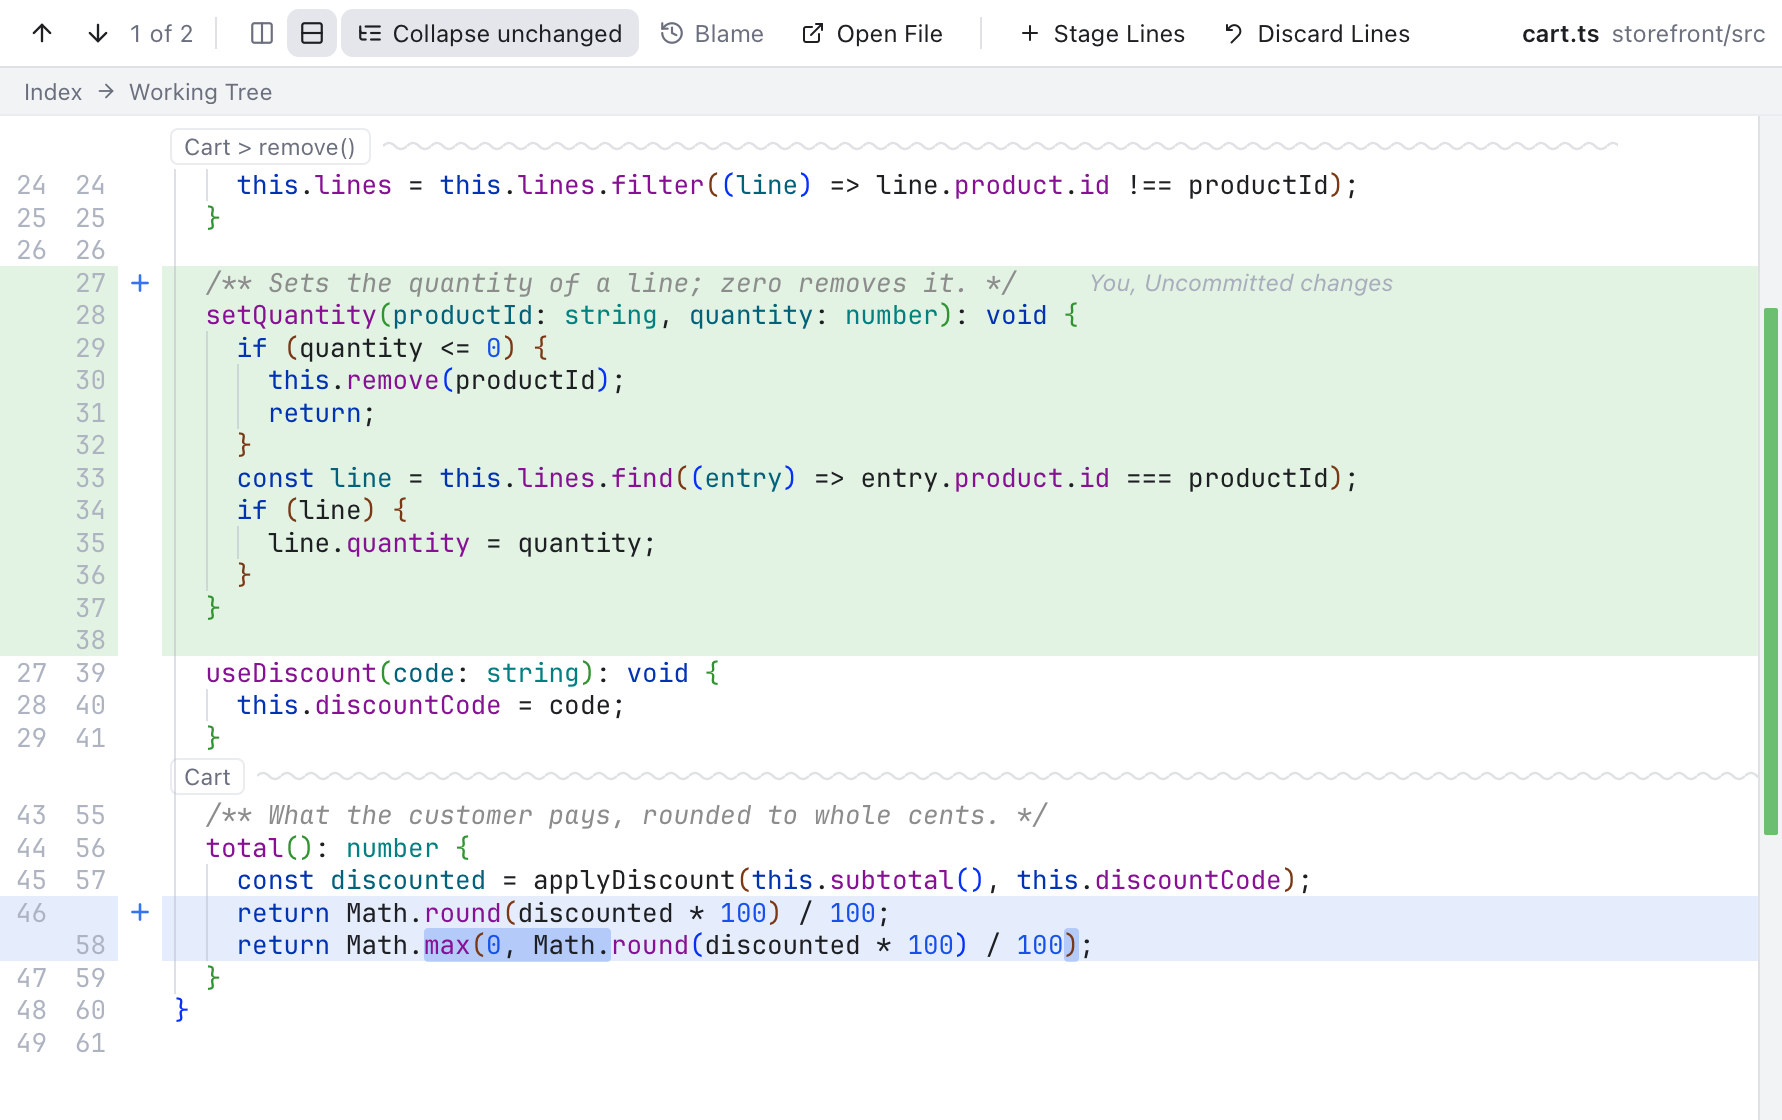
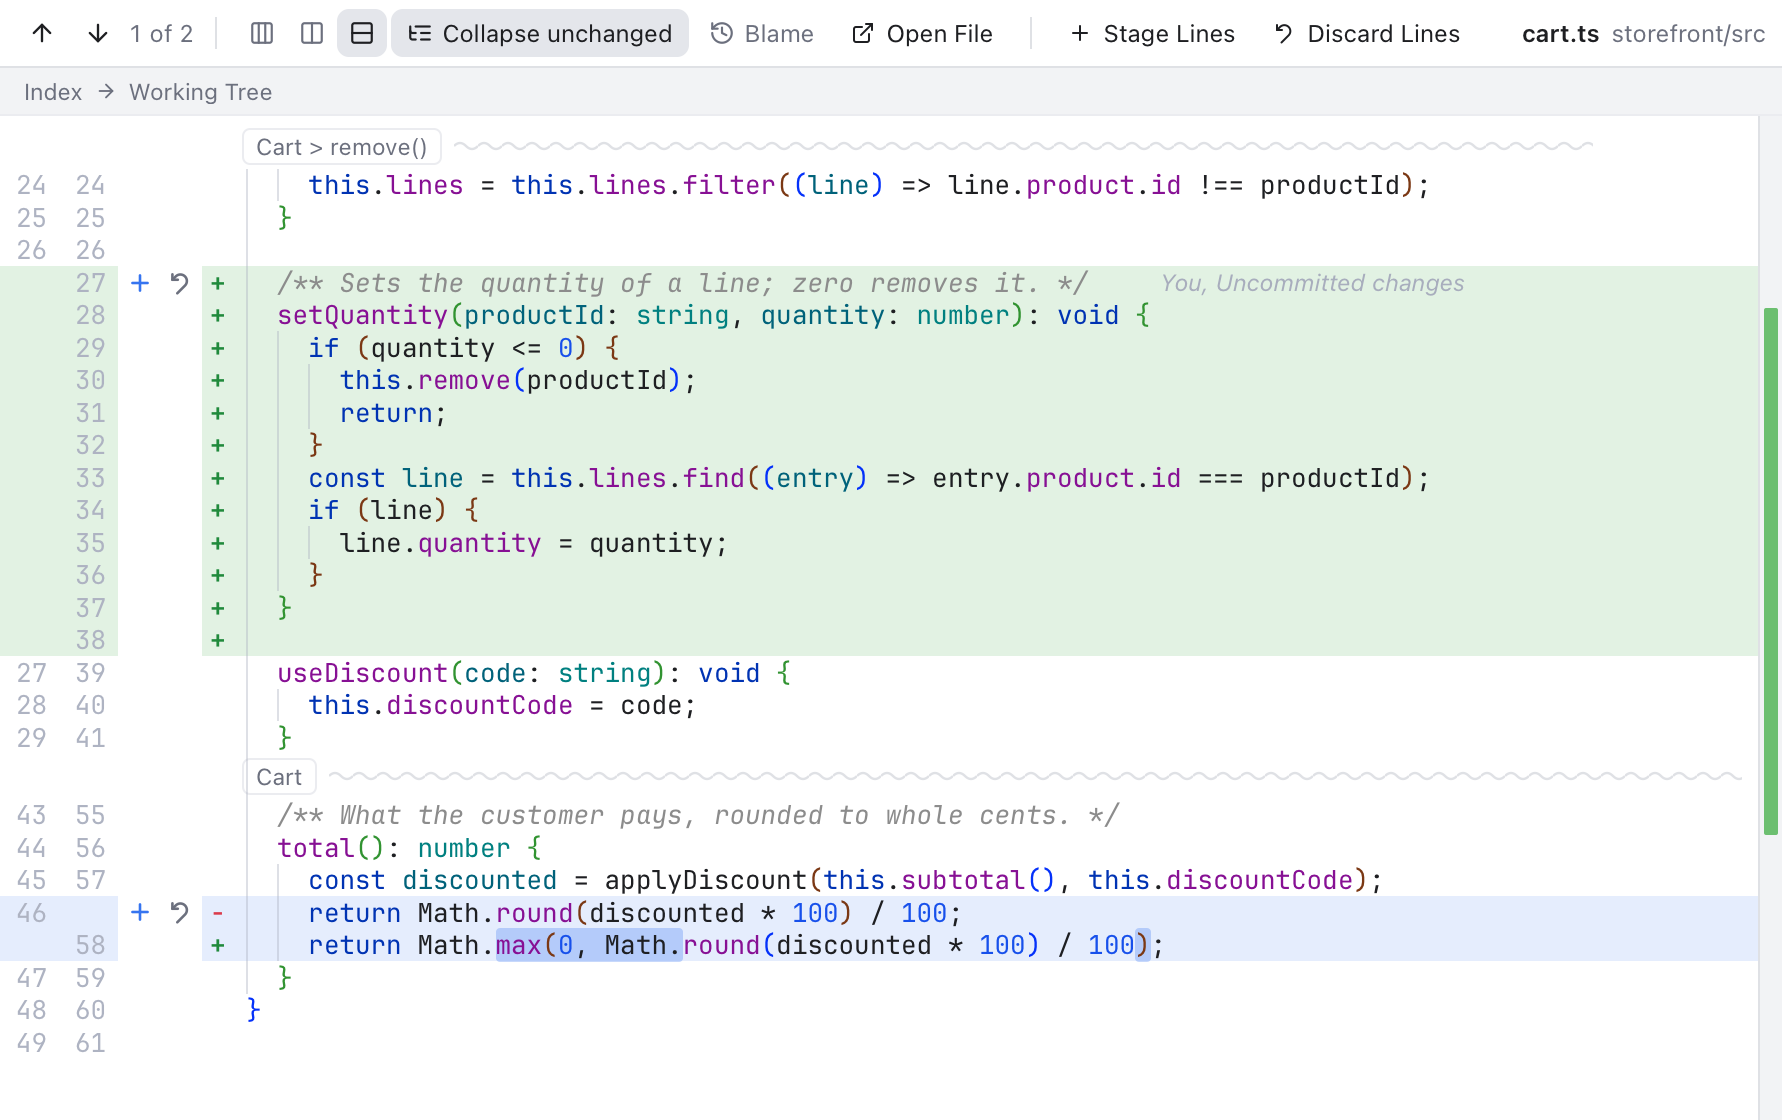
feat:[GM-123] inline diffs mark removed lines with a red - and added lines with a green +, like git and GitLens

diff --git a/src/lib/diff/inlineView.ts b/src/lib/diff/inlineView.ts
@@ -1,13 +1,15 @@
 // CodeMirror glue for the inline diff (the document and its logic live in inlineDoc.ts): line
 // colors by kind of change, changed words, the old and new number columns, a Stage or Unstage
-// button per change (with Revert next to Stage), and folded runs of unchanged lines.
+// button per change (with Revert next to Stage), a - or + before each removed or added line, and
+// folded runs of unchanged lines.
 
 import { type EditorState, type Extension, type Range, StateField } from "@codemirror/state";
 import { Decoration, type DecorationSet, EditorView, GutterMarker, gutter } from "@codemirror/view";
 import { inlineFolds } from "./foldField";
 import { FOLD_MARGIN, FOLD_MIN_SIZE } from "./foldModel";
-import { collapsedRuns, type InlineBlock, type InlineDoc, inlineWordMarks } from "./inlineDoc";
+import { collapsedRuns, type InlineBlock, type InlineDoc, inlineWordMarks, lineSign } from "./inlineDoc";
 import type { IconName } from "@git-manager/ui/icons";
+import { inlineTheme } from "./inlineTheme";
 import { revertButton } from "./mergeExtensions";
 
 export interface InlineViewOptions {
@@ -100,6 +102,51 @@ function numberGutter(side: "old" | "new", doc: InlineDoc, kinds: readonly (Bloc
   });
 }
 
+class SignMarker extends GutterMarker {
+  constructor(
+    readonly sign: "-" | "+" | "",
+    readonly kind: BlockKind | null,
+  ) {
+    super();
+    const signClass = this.sign === "-" ? " cm-inlineSign-removed" : this.sign === "+" ? " cm-inlineSign-added" : "";
+    this.elementClass = kind ? `cm-inlineGutter-${kind}${signClass}` : "";
+  }
+
+  eq(other: SignMarker): boolean {
+    return other.sign === this.sign && other.kind === this.kind;
+  }
+
+  toDOM(): Node {
+    return document.createTextNode(this.sign);
+  }
+}
+
+/**
+ * The - and + column right before the text, like git and GitLens print them, so removed and added lines stay apart
+ * where a modified change colors them alike. Its band continues the number columns' change colors.
+ */
+function signGutter(doc: InlineDoc, kinds: readonly (BlockKind | null)[]): Extension {
+  const markers = new Map<string, SignMarker>();
+  const markerFor = (sign: "-" | "+" | "", kind: BlockKind | null): SignMarker => {
+    const key = `${sign}${kind ?? ""}`;
+    let marker = markers.get(key);
+    if (!marker) {
+      marker = new SignMarker(sign, kind);
+      markers.set(key, marker);
+    }
+    return marker;
+  };
+  return gutter({
+    class: "cm-inlineSigns",
+    lineMarker: (view, line) => {
+      const index = view.state.doc.lineAt(line.from).number - 1;
+      return markerFor(lineSign(doc.lines[index]), kinds[index] ?? null);
+    },
+    lineMarkerChange: () => false,
+    initialSpacer: () => new SignMarker("+", null),
+  });
+}
+
 /** A gutter button that runs on mousedown, like the side by side buttons, so the click never moves the cursor. */
 function controlButton(title: string, iconName: IconName, run: () => void): HTMLElement {
   const button = revertButton(title, iconName);
@@ -175,72 +222,6 @@ function controlGutter(
   });
 }
 
-const inlineTheme = EditorView.theme({
-  ".cm-content .cm-line.cm-inlineAdded": {
-    backgroundColor: "var(--diff-added)",
-  },
-  ".cm-content .cm-line.cm-inlineDeleted": {
-    backgroundColor: "var(--diff-deleted)",
-  },
-  ".cm-content .cm-line.cm-inlineModified": {
-    backgroundColor: "var(--diff-modified)",
-  },
-  ".cm-content .cm-changedText": {
-    background: "var(--diff-inline)",
-    borderRadius: "2px",
-  },
-  ".cm-lineNumbers.cm-inlineNumbers .cm-gutterElement": {
-    padding: "0 6px 0 8px",
-    minWidth: "28px",
-  },
-  ".cm-gutterElement.cm-inlineGutter-added": {
-    backgroundColor: "var(--diff-added)",
-  },
-  ".cm-gutterElement.cm-inlineGutter-deleted": {
-    backgroundColor: "var(--diff-deleted)",
-  },
-  ".cm-gutterElement.cm-inlineGutter-modified": {
-    backgroundColor: "var(--diff-modified)",
-  },
-  ".cm-inlineControls .cm-gutterElement": {
-    display: "flex",
-    alignItems: "center",
-    padding: "0 2px",
-  },
-  ".cm-inlineControls .diff-controls": {
-    display: "inline-flex",
-    gap: "2px",
-  },
-  ".cm-inlineControls .diff-revert, .cm-inlineControls .diff-revert-spacer": {
-    display: "inline-flex",
-    alignItems: "center",
-    justifyContent: "center",
-    width: "18px",
-    height: "16px",
-  },
-  ".cm-inlineControls .diff-revert": {
-    padding: "0",
-    border: "none",
-    borderRadius: "4px",
-    background: "transparent",
-    color: "var(--accent)",
-    cursor: "pointer",
-  },
-  ".cm-inlineControls .diff-revert:hover": {
-    background: "var(--hover)",
-    color: "var(--accent-hover)",
-  },
-  ".cm-inlineControls .diff-revert.diff-revert-change": {
-    color: "var(--text-dim)",
-  },
-  ".cm-inlineControls .diff-revert.diff-revert-change:hover": {
-    color: "var(--danger)",
-  },
-  ".cm-inlineControls .diff-revert svg": {
-    pointerEvents: "none",
-  },
-});
-
 /** Everything the inline diff's editor needs on top of the read-only base. */
 export function inlineDiffExtensions(options: InlineViewOptions): Extension[] {
   const { doc, collapse, control, onControl, onRevert } = options;
@@ -257,6 +238,7 @@ export function inlineDiffExtensions(options: InlineViewOptions): Extension[] {
     numberGutter("old", doc, kinds),
     numberGutter("new", doc, kinds),
     control ? controlGutter(doc, control, onControl, control === "stage" ? onRevert : null) : [],
+    signGutter(doc, kinds),
     collapse
       ? inlineFolds(collapsedRuns(doc, FOLD_MARGIN, FOLD_MIN_SIZE).map(([from, to]) => ({ first: from + 1, last: to })))
       : [],

diff --git a/src/lib/diff/inlineTheme.ts b/src/lib/diff/inlineTheme.ts
@@ -1,0 +1,81 @@
+// The inline diff's look: line colors by kind of change, changed words, the number, sign and button columns.
+
+import { EditorView } from "@codemirror/view";
+
+export const inlineTheme = EditorView.theme({
+  ".cm-content .cm-line.cm-inlineAdded": {
+    backgroundColor: "var(--diff-added)",
+  },
+  ".cm-content .cm-line.cm-inlineDeleted": {
+    backgroundColor: "var(--diff-deleted)",
+  },
+  ".cm-content .cm-line.cm-inlineModified": {
+    backgroundColor: "var(--diff-modified)",
+  },
+  ".cm-content .cm-changedText": {
+    background: "var(--diff-inline)",
+    borderRadius: "2px",
+  },
+  ".cm-lineNumbers.cm-inlineNumbers .cm-gutterElement": {
+    padding: "0 6px 0 8px",
+    minWidth: "28px",
+  },
+  ".cm-gutterElement.cm-inlineGutter-added": {
+    backgroundColor: "var(--diff-added)",
+  },
+  ".cm-gutterElement.cm-inlineGutter-deleted": {
+    backgroundColor: "var(--diff-deleted)",
+  },
+  ".cm-gutterElement.cm-inlineGutter-modified": {
+    backgroundColor: "var(--diff-modified)",
+  },
+  ".cm-inlineSigns .cm-gutterElement": {
+    padding: "0 4px",
+    fontFamily: "var(--font-mono)",
+    fontWeight: "600",
+    textAlign: "center",
+  },
+  ".cm-gutterElement.cm-inlineSign-added": {
+    color: "var(--success)",
+  },
+  ".cm-gutterElement.cm-inlineSign-removed": {
+    color: "var(--danger)",
+  },
+  ".cm-inlineControls .cm-gutterElement": {
+    display: "flex",
+    alignItems: "center",
+    padding: "0 2px",
+  },
+  ".cm-inlineControls .diff-controls": {
+    display: "inline-flex",
+    gap: "2px",
+  },
+  ".cm-inlineControls .diff-revert, .cm-inlineControls .diff-revert-spacer": {
+    display: "inline-flex",
+    alignItems: "center",
+    justifyContent: "center",
+    width: "18px",
+    height: "16px",
+  },
+  ".cm-inlineControls .diff-revert": {
+    padding: "0",
+    border: "none",
+    borderRadius: "4px",
+    background: "transparent",
+    color: "var(--accent)",
+    cursor: "pointer",
+  },
+  ".cm-inlineControls .diff-revert:hover": {
+    background: "var(--hover)",
+    color: "var(--accent-hover)",
+  },
+  ".cm-inlineControls .diff-revert.diff-revert-change": {
+    color: "var(--text-dim)",
+  },
+  ".cm-inlineControls .diff-revert.diff-revert-change:hover": {
+    color: "var(--danger)",
+  },
+  ".cm-inlineControls .diff-revert svg": {
+    pointerEvents: "none",
+  },
+});

diff --git a/src/lib/diff/inlineDoc.ts b/src/lib/diff/inlineDoc.ts
@@ -180,6 +180,14 @@ export function inlineChangeMarks(doc: InlineDoc): ChangeMark[] {
   });
 }
 
+/** The mark git prints before a line of a patch: "-" removed, "+" added, "" unchanged. */
+export function lineSign(line: InlineLine | undefined): "-" | "+" | "" {
+  if (line?.kind === "deleted") {
+    return "-";
+  }
+  return line?.kind === "added" ? "+" : "";
+}
+
 /** The new text's line for a document line; a removed line counts as the line after it. */
 export function newLineAt(doc: InlineDoc, docLine: number): number {
   for (let index = Math.max(0, docLine); index < doc.lines.length; index++) {

diff --git a/src/lib/diff/inlineDoc.test.ts b/src/lib/diff/inlineDoc.test.ts
@@ -9,6 +9,7 @@ import {
   inlineChangeMarks,
   inlineSelection,
   inlineWordMarks,
+  lineSign,
   newLineAt,
 } from "./inlineDoc";
 
@@ -35,6 +36,11 @@ describe("buildInlineDoc", () => {
       "added",
       "added",
     ]);
+  });
+
+  it("marks removed lines with - and added lines with +, like git, inside a modified change too", () => {
+    expect(doc.lines.map(lineSign)).toEqual(["", "-", "+", "", "-", "-", "+", "+"]);
+    expect(lineSign(undefined)).toBe("");
   });
 
   it("numbers every line on both sides", () => {

diff --git a/docs/wiki/developer/How-the-Inline-Diff-Works.md b/docs/wiki/developer/How-the-Inline-Diff-Works.md
@@ -38,6 +38,7 @@ Hunks that do not fit the texts (`hunkRanges` returns null), or a payload withou
 - line classes by kind of change (added green, removed grey, modified blue, the `--diff-*` tokens) and changed-word marks from `inlineWordMarks`, which diffs each modified block's old lines against its new lines,
 - two number gutters, old then new, that tint changed rows like the code,
 - a gutter with a Stage (+) or Unstage (-) button on the first line of each change,
+- a sign gutter right before the text: `lineSign` gives `-` for a removed line and `+` for an added one, in `--danger` red and `--success` green, like `git diff` and GitLens. A modified block colors its old and new lines alike, so the signs are what tell them apart. Markers are shared per sign and kind,
 - folded unchanged runs from `collapsedRuns` (3 lines of margin, at least 4 folded), drawn by `inlineFolds` from `foldField.ts`, the same folds as the side by side layout. They are block widgets in a `StateField`, as block decorations must be. A run opens 10 lines at a time from either edge, fully when its label is clicked, and fully when the cursor lands in it, so a Find match or a reveal is never hidden.
 
 ### Mapping back to the two versions
@@ -55,7 +56,7 @@ Everything outside the editor speaks in new-text lines or old and new lines, so 
 | File | What it does |
 | --- | --- |
 | `src/lib/diff/inlineDoc.ts` | The document, word marks, selection, `applyBlock`, folds, line mapping |
-| `src/lib/diff/inlineView.ts` | `inlineDiffExtensions`: colors, gutters, buttons, folds |
+| `src/lib/diff/inlineView.ts`, `inlineTheme.ts` | `inlineDiffExtensions`: colors, gutters, signs, buttons, folds; the look |
 | `src/lib/diff/foldField.ts`, `foldModel.ts` | The fold bars and their 10 line steps, shared with side by side |
 | `src/lib/diff/DiffToolbar.svelte`, `diffViews.ts` | The toolbar buttons and building either layout |
 | `src/lib/editor/blame.ts`, `blameModel.ts` | `loadBlame` for an inline source, `expandBlame`, `REMOVED_LINE` |
@@ -75,7 +76,7 @@ Everything outside the editor speaks in new-text lines or old and new lines, so 
 
 ## Tests
 
-- `src/lib/diff/inlineDoc.test.ts`: document order and numbers, line mapping, new and unchanged files, exact selections, stage and unstage text, word marks only in modified blocks, ruler ticks, folds with margins, the fallback hunks.
+- `src/lib/diff/inlineDoc.test.ts`: document order and numbers, line mapping, new and unchanged files, exact selections, stage and unstage text, the - and + signs, word marks only in modified blocks, ruler ticks, folds with margins, the fallback hunks.
 - `src/lib/editor/blameModel.test.ts`: `expandBlame` blanks removed lines and records new lines for Back and Forward.
 - `src/lib/stores/settingsData.test.ts`: the `diffLayout` preference defaults to side by side and rejects unknown values.
 - `src/lib/views/settings/settingsSearch.test.ts`: the Diff layout row is in the dialog and its search index.

diff --git a/CHANGELOG.md b/CHANGELOG.md
@@ -13,6 +13,7 @@ GitHub release notes, and the app shows it as "What's New".
 
 ### Added
 
+- Inline diffs mark each changed line like `git diff` and GitLens: a red **-** before a removed line and a green **+** before an added one, so old and new lines stay apart inside a changed (blue) block.
 - Notifications, like PhpStorm: messages pop up as balloons in the bottom right corner, with an icon for the kind, a title that names the branch and where it went ("Pushed 2 commits of main to origin/main", "Pulled origin/main into main", "Fetched origin: nothing new", "Could not push main"), the repository it came from, what git did (the commits that moved, new and deleted branches, files changed, or git's error) and a link such as Undo. A balloon stays open while the pointer is over it, and at most four show at once. The new bell at the bottom of the right activity bar (also the status bar bell and View > Notifications) opens a Notifications panel in the right sidebar that lists every message of the session, such as pushes, pulls and fetches, newest first with a dot on the unseen ones. Clear one with its x or all with the trash can, and turn Do Not Disturb on from the panel. While the panel is shown, nothing pops up.
 - Revert one change, like PhpStorm and GitLens: in the Changes diff each change has a **Revert this change** button next to Stage (side by side and inline), which puts the staged version of its lines back in the working tree, with Undo. In the file editor, click a change bar beside the line numbers to put the last commit's lines back (an ordinary edit you can undo). Both ask first.
 - Two debugging tools for the MCP server and `git-manager cli`: `inspect_layout` lists what is scrolled and what reaches past the window, and `trace_scrolls` records every scroll with the code that made it.

diff --git a/docs/wiki/usage/Inline-Diffs.md b/docs/wiki/usage/Inline-Diffs.md
@@ -4,7 +4,7 @@ Every diff can show its two versions side by side, or inline in one column. Inli
 
 ![An inline diff: removed lines above the lines that replace them](../images/diff-inline.png)
 
-*An inline diff of cart.ts: the old and new line numbers on the left, each change's removed lines above the lines that replace them, and the layout buttons in the toolbar.*
+*An inline diff of cart.ts: the old and new line numbers on the left, a red - or green + before each changed line, each change's removed lines above the lines that replace them, and the layout buttons in the toolbar.*
 
 ## Switch the layout
 
@@ -18,6 +18,7 @@ The highlighted button is the layout in use, and both places change the same set
 ## Reading an inline diff
 
 - The colors are the same as side by side: added lines are green, removed lines are grey, and a changed block (old lines followed by their new lines) is blue.
+- Right before the text, a red **-** marks a removed line and a green **+** an added line, like `git diff` and GitLens. In a blue changed block, where old and new lines share one color, the signs tell them apart.
 - Inside a changed block, the exact words that changed are highlighted, in the old lines and in the new ones.
 - Two columns of line numbers sit on the left: the old version's number, then the new version's. A removed line has only an old number, an added line only a new one.
 - The label above the diff names both versions, such as **Index** and **Working Tree**, with an arrow between them.
